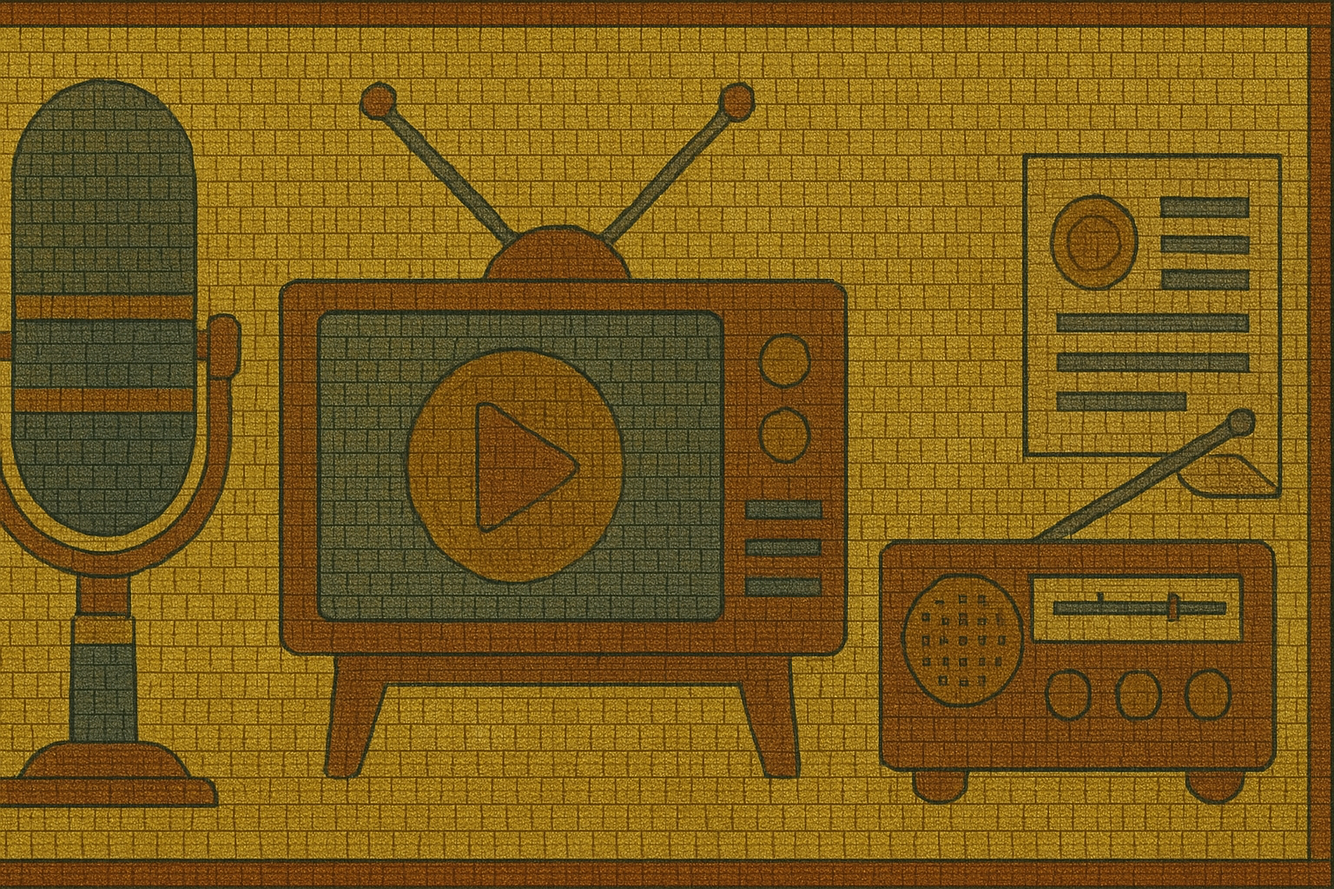
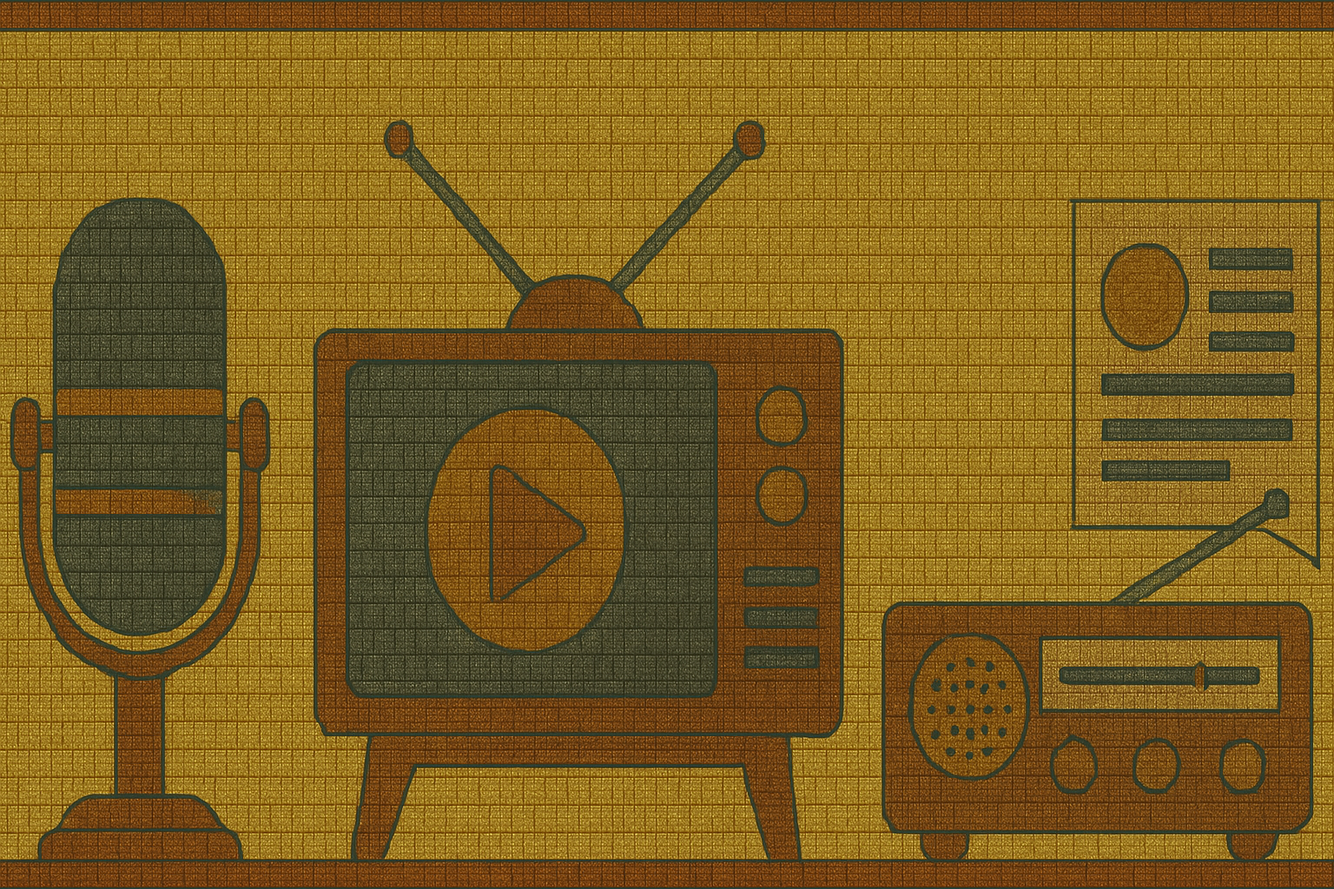
Update documentation

diff --git a/materials/media.html b/materials/media.html
@@ -410,7 +410,7 @@ document.write(`
   <section class="tex2jax_ignore mathjax_ignore" id="media-resources">
 <h1>Media Resources<a class="headerlink" href="#media-resources" title="Link to this heading">#</a></h1>
 <p>In this page you will find all shared links for media materials such as videos, podcasts, and other media resources.</p>
-<a class="reference internal image-reference" href="../_images/media.png"><img alt="media logo" src="../_images/media.png" style="width: 300px;" />
+<a class="reference internal image-reference" href="../_images/media.png"><img alt="media logo" src="../_images/media.png" style="width: 600px;" />
 </a>
 <section id="videos">
 <h2>Videos<a class="headerlink" href="#videos" title="Link to this heading">#</a></h2>

diff --git a/_sources/materials/media.md b/_sources/materials/media.md
@@ -5,7 +5,7 @@ In this page you will find all shared links for media materials such as videos, 
 
 ```{image} ../figs/media.png
 :alt: media logo
-:width: 300px
+:width: 600px
 ```
 
 
